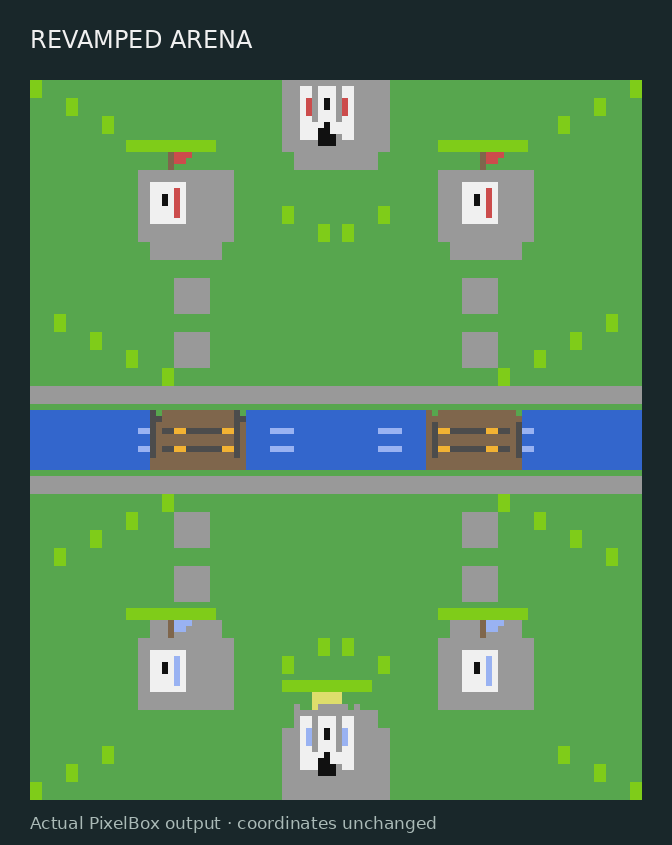
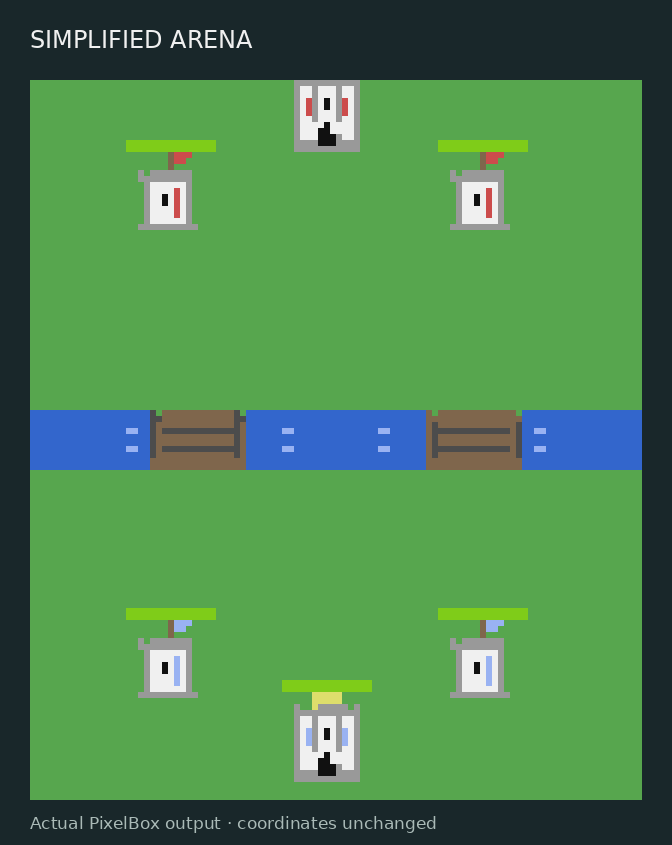
Simplify arena skin to preserve the original clean field

diff --git a/docs/AUDIT_REGISTER.md b/docs/AUDIT_REGISTER.md
@@ -219,6 +219,6 @@ See `QUALITY_GATE.md` for the precise release decision process.
 
 | ID | Classification / priority | Prerequisites and scope | Validation / status |
 | --- | --- | --- | --- |
-| VIS-002 | RISK P2, terrain/coordinate parity | Requested arena skin must preserve the 100×160 world, exact river and bridge footprints, six tower coordinates, projection, collision, navigation, deployment and touch zones. Decoration must not consume gameplay RNG or mutate simulation state. | `tests/test_arena_skin_parity.lua` — 314,874 native/encoded terrain pixels, 68,034 coordinate cases, a bridge-width fault injection, and 240 identical combat ticks with old/new/no rendering. All 33 local suites pass in Lua 5.2 and 5.4; CI runs the new suite in both. Actual previews and preserved coordinates: `docs/ARENA_SKIN.md`. Physical monitor validation remains required. |
+| VIS-002 | RISK P2, terrain/coordinate parity | Simplified skin revision removes the stone pads, paths, banks and grass confetti, retaining the original clean field with subtle water and bridge detail. Requested arena skin must preserve the 100×160 world, exact river and bridge footprints, six tower coordinates, projection, collision, navigation, deployment and touch zones. Decoration must not consume gameplay RNG or mutate simulation state. | `tests/test_arena_skin_parity.lua` — 314,874 native/encoded terrain pixels, 68,034 coordinate cases, a bridge-width fault injection, and 240 identical combat ticks with old/new/no rendering. All 33 local suites pass in Lua 5.2 and 5.4; CI runs the new suite in both. Actual previews and preserved coordinates: `docs/ARENA_SKIN.md`. Physical monitor validation remains required. |
 
 

diff --git a/docs/ARENA_SKIN.md b/docs/ARENA_SKIN.md
@@ -1,8 +1,11 @@
 # Arena appearance: fixed coordinates
 
-The arena now has sparse grass highlights, stone tower foundations and stepping
-paths, stone banks, water wavelets, and wooden bridge grain. These are background
-colours only; they add no obstacles, entities, deployment rules or collision.
+The arena keeps the original flat green field, blue river and brown bridges.
+Only sparse light-blue water glints and simple gray plank seams add detail.
+The earlier stone foundations, stepping paths, riverbanks, lime grass patches
+and orange bridge highlights have been removed following visual feedback.
+These are background colours only; they add no obstacles, entities, deployment
+rules or collision.
 
 ![Actual before and after](../assets/arena/before-after.png)
 
@@ -24,9 +27,8 @@ river and bridge drawing is retained. Decoration is confined to complete,
 solid 2×3 PixelBox cells: mixed boundary and rail cells retain their original
 pixels. This preserves land, water and bridge footprints both before and after
 terminal encoding. Every colour used within an interior cell belongs to that
-cell's original terrain class. Grass details avoid tower health bars.
+cell's original terrain class. Grass is completely unchanged from the original arena.
 
-Paths and foundations use the existing `arena.towerBlueprints()` coordinates.
 The paint is cached with the existing terrain cache. It uses no random numbers
 and adds no per-tick terrain painting. Existing sprites, coordinate transforms,
 collision, navigation, deployment, touch handling and gameplay files are unchanged.
